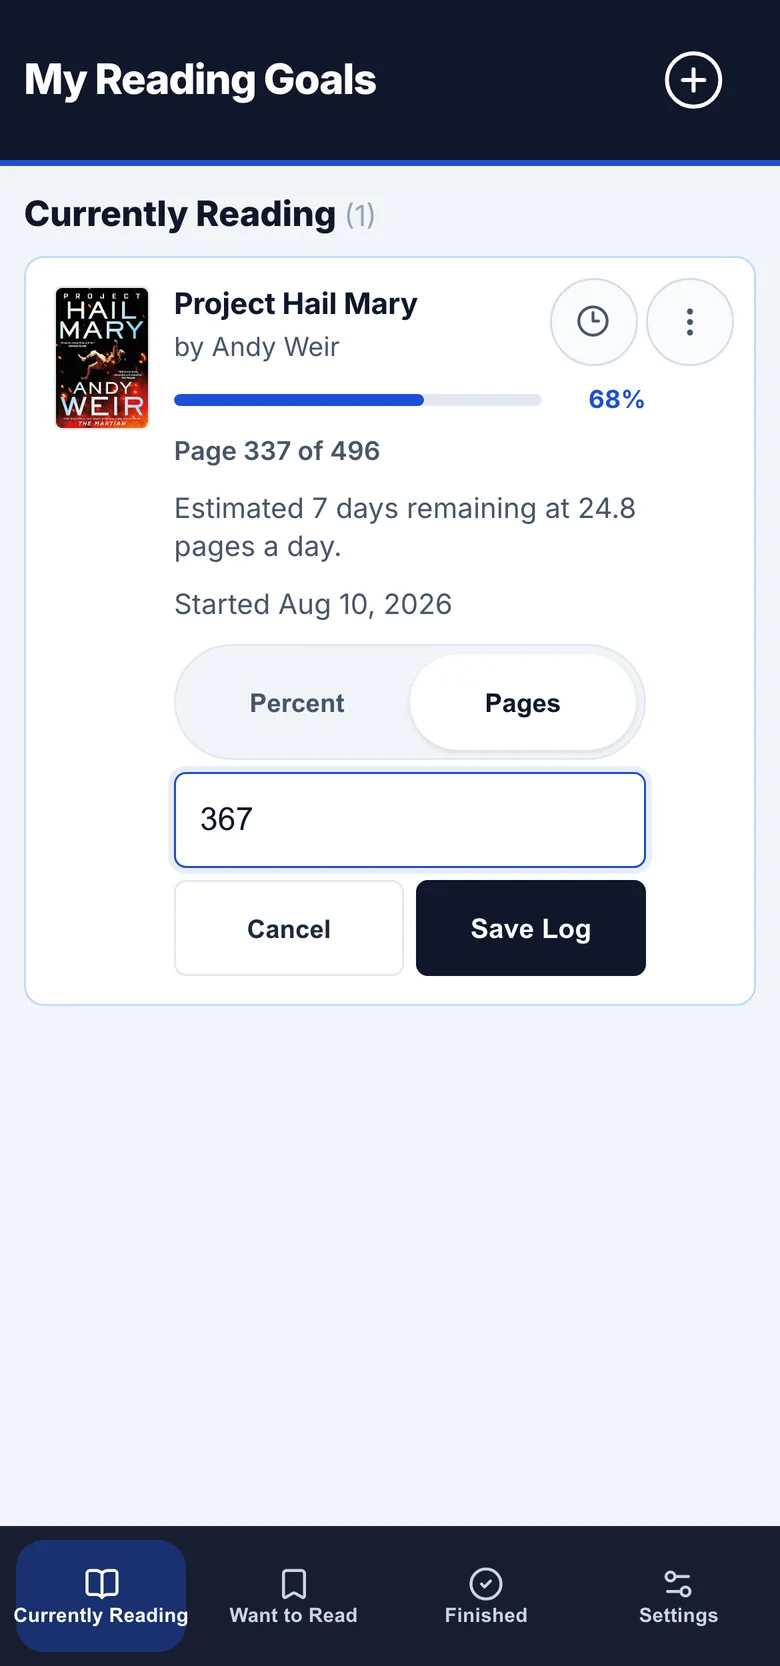
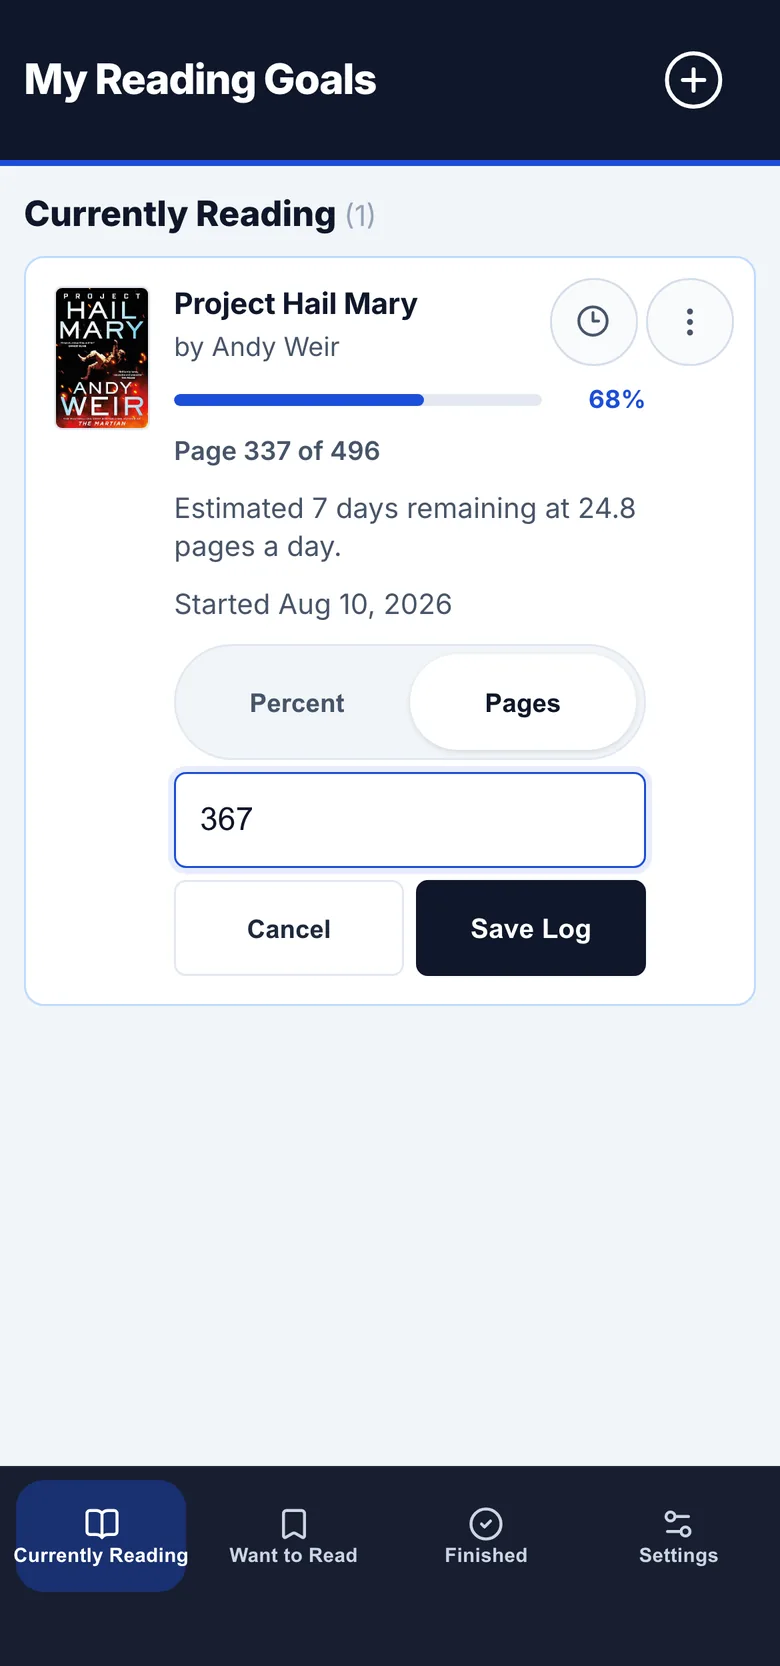
Capture the demo screens with a real phone safe area
The first bottom-nav label grazed the rounded corner of the phone in the
landing page hero, so the C of Currently read as shaved.

Measured rather than guessed. The screen corner radius is 33px from 820px
up. In the old screenshots the leftmost pixel of the label sat 4.7px from
the screen edge and 17.3px above the bottom, which clears the arc by
0.7px. At 320px the margin was 0.8px. Nothing was geometrically cut, but
at that distance the antialiased arc and the antialiased stem of the
letter overlap, which is what the eye picks up.

The screenshots were the fault, not the frame. The nav uses

  padding-bottom: max(env(safe-area-inset-bottom, 0), 0.25rem)

On a phone that resolves to 34px and lifts the labels clear. Headless
Chrome reports the inset as 0, so it fell back to 4px and the nav sat
flush on the screen edge, right where the arc bites. The frame had device
chrome without the matching device inset.

Chrome can emulate the inset, so no CSS is faked: send
Emulation.setSafeAreaInsetsOverride with bottom 34 over CDP before
navigating. The nav grows from 70 to 100 CSS px and the label now sits
36.3px above the bottom, entirely outside the 33px arc, at every width
from 320 to 1440.

Two capture faults are fixed at the same time.

The wait for the book covers was built on

  [...document.images].every(i => i.complete && i.naturalWidth > 0)

The list renders only after the API responds, so at domcontentloaded that
[…]

Changed region(s): [[0.0, 0.8739, 1.0, 0.9988], [0.4, 0.9676, 0.4615, 0.9988]]

diff --git a/CONTRIBUTING.md b/CONTRIBUTING.md
@@ -123,7 +123,7 @@ Image.open("s1.png").convert("RGB").resize((780, 1666), Image.LANCZOS) \
 ```
 
 780x1666 is twice the 390x833 capture viewport, so the screen stays sharp on
-a 2x display. All seven come to about 317 KB, and only the first one loads
+a 2x display. All seven come to about 308 KB, and only the first one loads
 before the visitor scrolls.
 
 The captions live in `docs/index.html` on each dot button, as `data-title`
@@ -150,6 +150,26 @@ dots, and one phone screenshot.
 Slides 1 and 2 show the book before you log progress. Slides 3 to 7 show it
 after. Change `server/data/books.json` to stage each state, and keep a backup.
 That file is in `.gitignore`. Make sure it stays untracked.
+
+Re-seed that file immediately before **every** capture run, not once at the
+start. Scene 2 clicks the Pages unit toggle, and the app saves that choice to
+the book at once. Re-running the first scenario without re-seeding therefore
+captures scene 1 in pages mode, which disagrees with the percent history in
+scene 3.
+
+Two settings decide whether the capture is usable:
+
+- Emulate the phone safe area. Send `Emulation.setSafeAreaInsetsOverride` with
+  `{ insets: { bottom: 34 } }` over CDP before you navigate. The bottom nav
+  uses `max(env(safe-area-inset-bottom, 0), 0.25rem)`, and headless Chrome
+  reports that inset as 0, so the nav lands 4px from the screen edge instead
+  of 34px. The phone frame on the landing page has a 33px corner radius and
+  `overflow: hidden`, so at 4px the corner cuts the first tab label in half.
+- Wait for the covers properly. The list renders only after the API responds,
+  so at `domcontentloaded` `document.images` is still empty, and `[].every()`
+  is `true`. A wait built only on that check returns at once and screenshots a
+  blank cover. Wait for `.bottom-nav`, then `networkidle`, and only then check
+  that every image is complete. Print the loaded count with each shot.
 
 Capture the screens at a 390x833 viewport with `deviceScaleFactor: 3`. Each
 slide is 1920x1080 on `#F8FAFC`:
